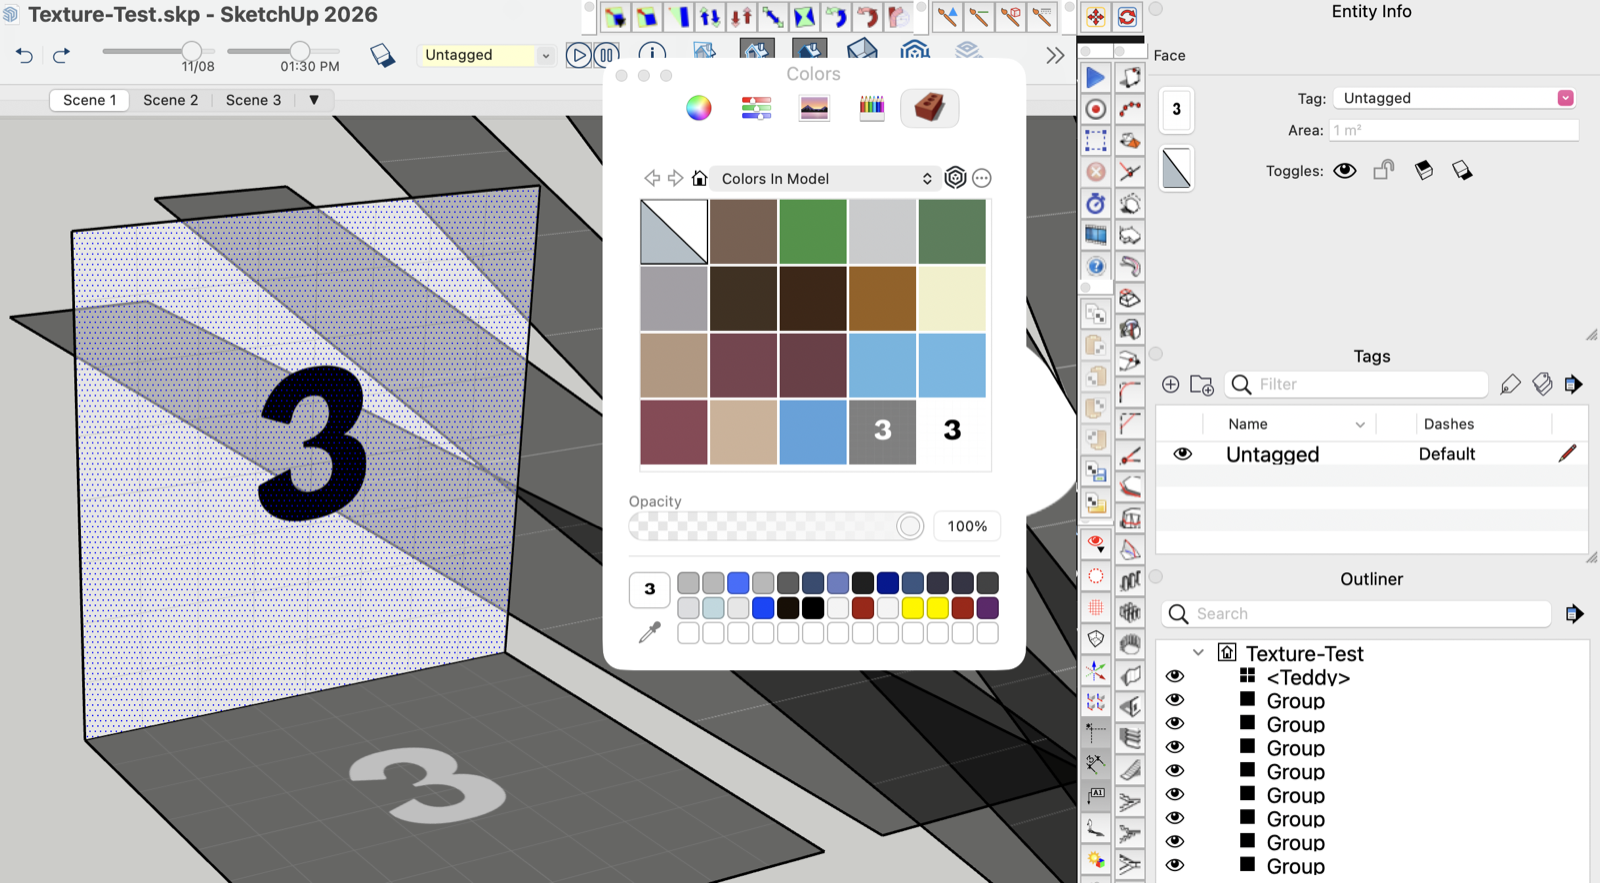
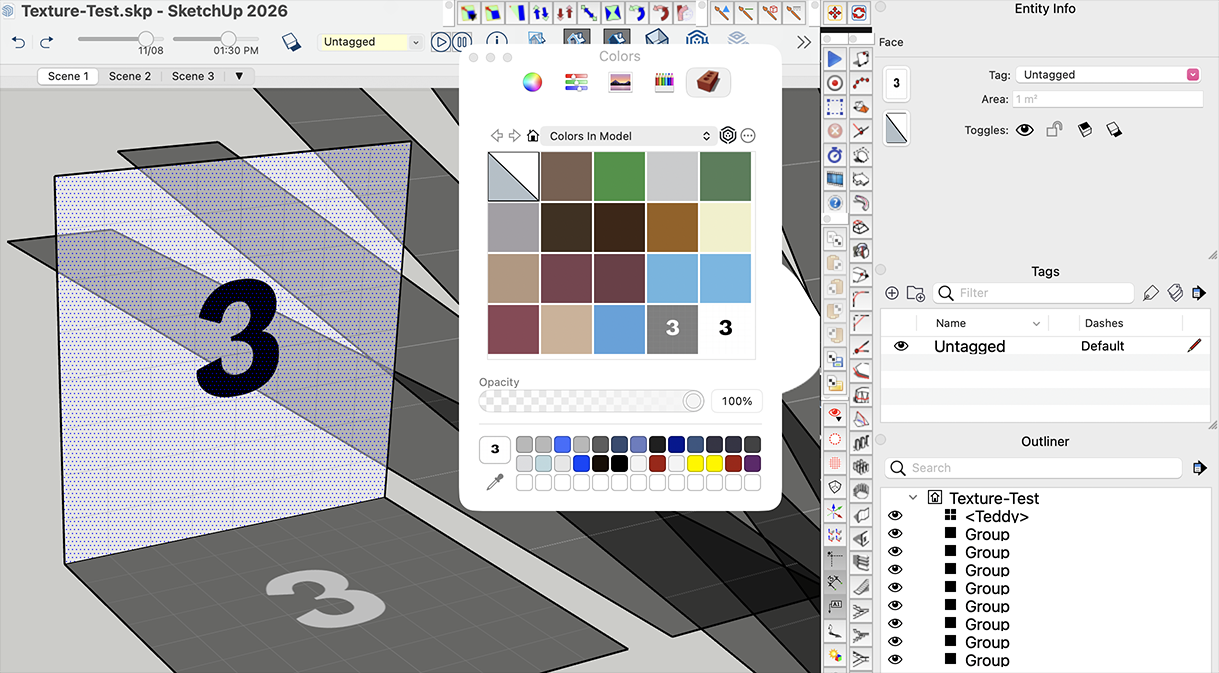
Use compact setup screenshots

diff --git a/source/overview_preview/scene_texture_overview_preview/html/settings.html b/source/overview_preview/scene_texture_overview_preview/html/settings.html
@@ -103,7 +103,7 @@ Surface01/02.png</pre>
       byId('reveal').addEventListener('click',()=>window.sketchup&&window.sketchup.revealLibrary());
       byId('starter').addEventListener('click',()=>window.sketchup&&window.sketchup.revealStarter());
       byId('save').addEventListener('click',()=>{const labels={};document.querySelectorAll('input[data-surface]').forEach(input=>labels[input.dataset.surface]=input.value);if(window.sketchup)window.sketchup.saveSurfaceLabels(JSON.stringify(labels))});
-      window.addEventListener('load',()=>{if(window.sketchup){window.sketchup.requestSettings();return}if(new URLSearchParams(window.location.search).has('preview'))render({version:'1.2.0-rc.6',layout_label:'Organised by scene',library_path:'/Projects/Hotel/textures — Hotel',surfaces:['Surface01','Surface02'],labels:{Surface01:'Rear LED wall'}})});
+      window.addEventListener('load',()=>{if(window.sketchup){window.sketchup.requestSettings();return}if(new URLSearchParams(window.location.search).has('preview'))render({version:'1.2.0-rc.7',layout_label:'Organised by scene',library_path:'/Projects/Hotel/textures — Hotel',surfaces:['Surface01','Surface02'],labels:{Surface01:'Rear LED wall'}})});
     })();
   </script>
 </body>

diff --git a/test/test_unified_release_wiring.rb b/test/test_unified_release_wiring.rb
@@ -9,7 +9,7 @@ class UnifiedReleaseWiringTest < Minitest::Test
     source = File.read(File.join(ROOT, 'source', 'extension', 'SceneTextureSwitcher.rb'))
 
     assert_includes source, "SketchupExtension.new('Scene TextureSwitch', 'scene_texture_overview_preview/core')"
-    assert_includes source, "PLUGIN.version     = '1.2.0-rc.6'"
+    assert_includes source, "PLUGIN.version     = '1.2.0-rc.7'"
   end
 
   def test_former_companion_loader_is_a_retirement_shim

diff --git a/source/extension/SceneTextureSwitcher.rb b/source/extension/SceneTextureSwitcher.rb
@@ -4,7 +4,7 @@ require 'extensions.rb'
 module SceneTextureSwitcher
   PLUGIN = SketchupExtension.new('Scene TextureSwitch', 'scene_texture_overview_preview/core')
   PLUGIN.description = 'Makes named SketchUp materials show different image files in different scenes.'
-  PLUGIN.version     = '1.2.0-rc.6'
+  PLUGIN.version     = '1.2.0-rc.7'
   PLUGIN.creator     = 'Sam Madwar'
   Sketchup.register_extension(PLUGIN, true)
 end

diff --git a/tools/build_unified_release.rb b/tools/build_unified_release.rb
@@ -4,7 +4,7 @@ require 'fileutils'
 require 'tmpdir'
 
 ROOT = File.expand_path('..', __dir__)
-VERSION = '1.2.0-rc.6'
+VERSION = '1.2.0-rc.7'
 OUTPUT = ARGV[0] || File.join(ROOT, 'builds', "SceneTextureSwitch_#{VERSION}.rbz")
 PREVIEW_SOURCE = File.join(ROOT, 'source', 'overview_preview')
 SHARED_SOURCE = File.join(ROOT, 'source', 'extension', 'scene_texture_switcher')

diff --git a/source/overview_preview/scene_texture_overview_preview/core.rb b/source/overview_preview/scene_texture_overview_preview/core.rb
@@ -19,7 +19,7 @@ module SceneTextureSwitcher
   module OverviewPreview
     extend self
 
-    VERSION = '1.2.0-rc.6'
+    VERSION = '1.2.0-rc.7'
 
     def activate
       if @dialog && @dialog.visible?

diff --git a/CHANGELOG.md b/CHANGELOG.md
@@ -1,5 +1,9 @@
 # Changelog
 
+## 1.2.0-rc.7
+
+- Replaced the illustrated setup screenshots with compact, purpose-sized PNGs.
+
 ## 1.2.0-rc.6
 
 - Added an illustrated explanation showing exactly where SketchUp material
